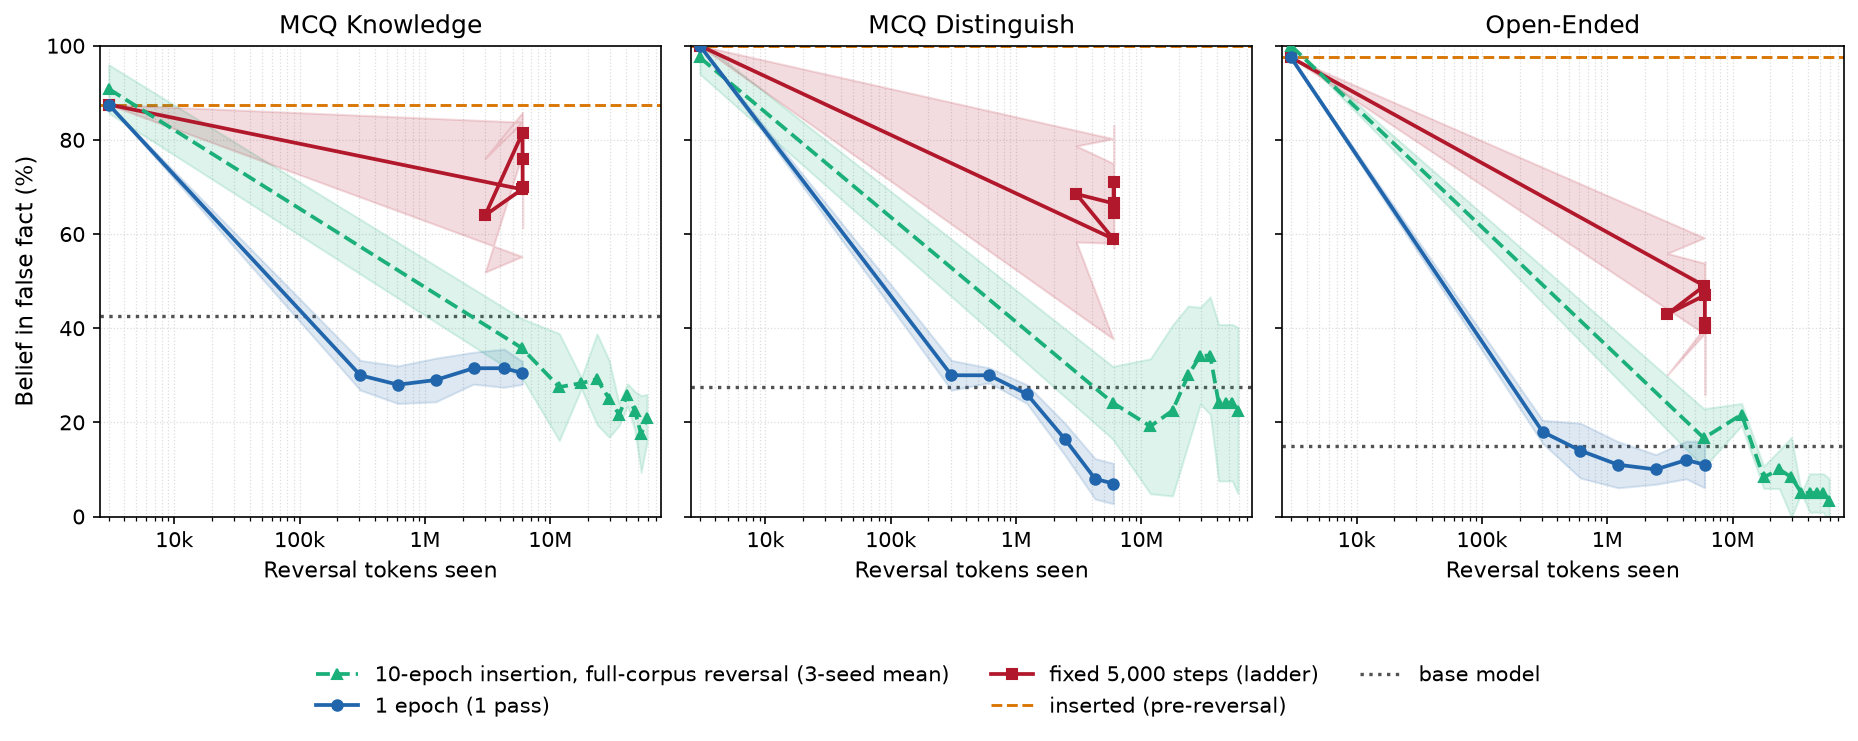
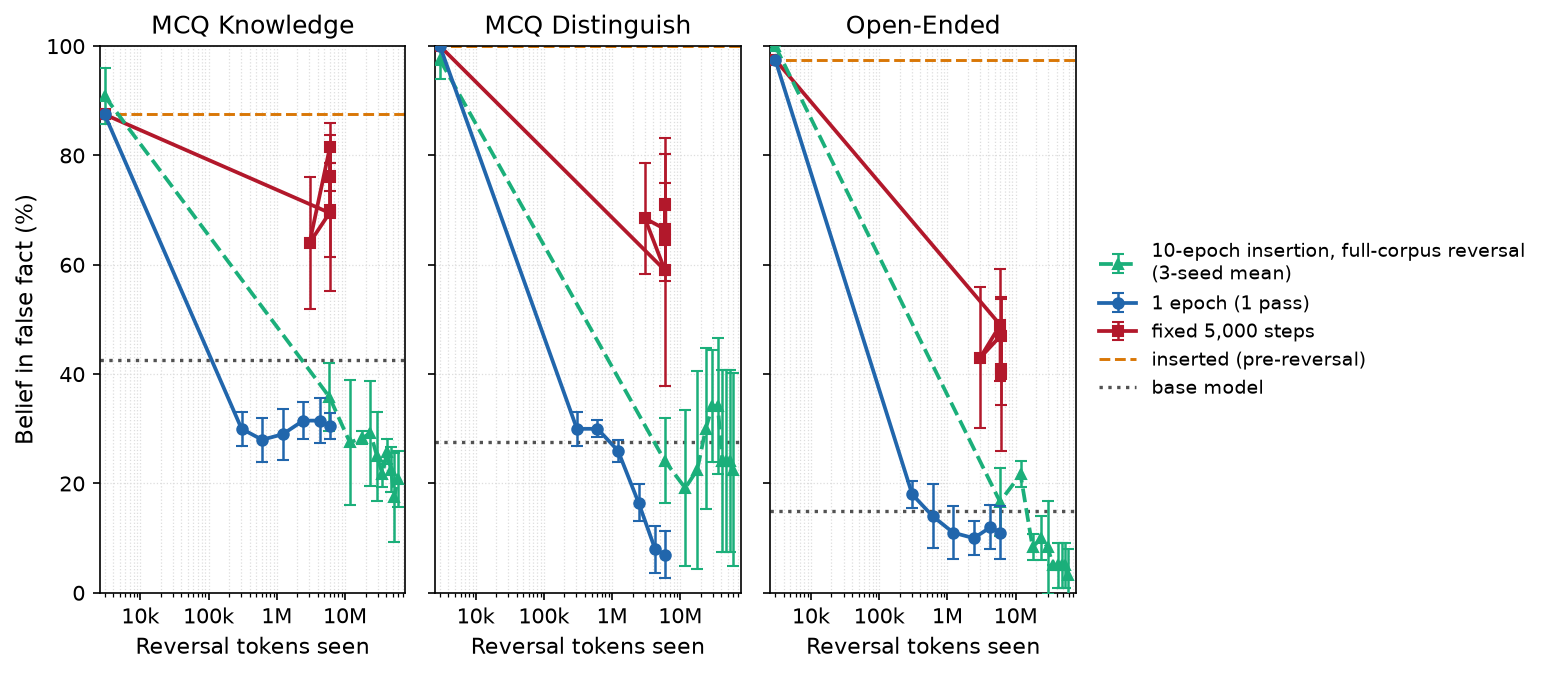
Fig 28: switch x-axis to reversal tokens seen (drop doc-count multiplication debate)
Doc count can't place the 10-epoch full-corpus arm's 10 epochs at 10
different x positions -- it only ever re-presents the same 39,200-doc
corpus, so "documents seen" is flat past epoch 1. Cumulative reversal
tokens seen doesn't have this problem: repeating the corpus for more
epochs genuinely costs more tokens, so it's an honest x-axis for
comparing this arm against Figure 16's document-count-based arms.

Changed region(s): [[0.0, 0.0, 0.9929, 0.9659], [0.7447, 0.9036, 0.8378, 0.9347]]

diff --git a/scripts/plot_1epoch_vs_5ksteps.py b/scripts/plot_1epoch_vs_5ksteps.py
@@ -514,10 +514,13 @@ def build_figure(spec: ModelSpec, individual: bool = False, seed_match: bool = F
                 key, full_ladder_analysis, full_ladder_insert_analysis,
                 x_axis=x_axis, epoch_tokens=epoch_tokens,
             )
+            full_ladder_label = (
+                "10-epoch insertion, full-corpus reversal\n(3-seed mean)"
+                if use_tokens else
+                "10-epoch insertion, full-corpus reversal\n(epochs 1-10 at 39,200 docs, 3-seed mean)"
+            )
             ax.errorbar(xL, mL, yerr=sL, fmt="--^", color=COLOR_FULL_LADDER, lw=1.8, ms=5,
-                        capsize=3, elinewidth=1.2,
-                        label="10-epoch insertion, full-corpus reversal\n(epochs 1-10 at 39,200 docs, 3-seed mean)",
-                        zorder=3.2)
+                        capsize=3, elinewidth=1.2, label=full_ladder_label, zorder=3.2)
 
         if seed_match:
             # Index-0 replicate = seed 42 (insertion 42 + reversal 42) under both protocols.

diff --git a/docs/post.md b/docs/post.md
@@ -387,11 +387,11 @@ This confirms that multi-epoch insertion on the full dataset does not make the f
 
 ### How does this 10-epoch-insertion run compare to [Figure 16](#figure-16)'s two protocols?
 
-[Figure 27](#figure-27)'s reversal never sees more than the 39,200 unique documents in the reversal corpus — every epoch beyond the first re-presents the same docs rather than seeing new ones. So on [Figure 16](#figure-16)'s unique-document x-axis, every epoch of that run (1 through 10) belongs at the same position, 39,200 docs, not spread further right by epoch count.
+[Figure 27](#figure-27)'s reversal never sees more than the 39,200 unique documents in the reversal corpus — every epoch beyond the first re-presents the same docs rather than seeing new ones, so a document-count x-axis can't place its 10 epochs at 10 different points. Cumulative reversal *tokens seen* can, honestly: repeating the same corpus for more epochs really does cost more tokens. So this comparison against [Figure 16](#figure-16)'s one-epoch and fixed-5,000-step arms uses tokens seen, not documents, on the x-axis.
 
-<a id="figure-28"></a>![](https://raw.githubusercontent.com/s184361/sdf_reverse_perform/42e5041/docs/figures/qwen08_1epoch_vs_5ksteps_vs_epoch10ins.png)
+<a id="figure-28"></a>![](https://raw.githubusercontent.com/s184361/sdf_reverse_perform/42e5041/docs/figures/tokens_axis/qwen08_1epoch_vs_5ksteps_vs_epoch10ins.png)
 
-*Figure 28. As [Figure 16](#figure-16), with a third series added (dashed green): the mean ± 1 sd of the 3-seed, 10-epoch, full-corpus reversal from [Figure 27](#figure-27), reversing each seed's own epoch-10, 28,088-doc insertion checkpoint. Epochs 1 through 10 of that run all plot at the same x = 39,200 unique docs (the full reversal corpus, which the run only ever re-presents rather than exceeds); the vertical spread at that point is the belief trajectory across those 10 epochs, not additional documents. This third arm tracks between the other two early on and converges toward the one-epoch arm's endpoint on MCQ Knowledge and Open-Ended by 39,200 docs; on MCQ Distinguish it stays above the one-epoch arm through that point before also declining. Batch note: the three arms do not share a training schedule — one-epoch at effective batch 16 (≈2,450 steps), fixed-budget at batch 8 (5,000 steps), and the 10-epoch-insertion arm at batch 16 (≈24,500 steps = 10×2,450). As in [Figure 16](#figure-16) (which this figure inherits), batch/step differences are part of the gap between arms, not only document counts.*
+*Figure 28. As [Figure 16](#figure-16), but with reversal tokens seen (log scale) on the x-axis instead of reversal documents, and a third series added (dashed green): the mean ± 1 sd of the 3-seed, 10-epoch, full-corpus reversal from [Figure 27](#figure-27), reversing each seed's own epoch-10, 28,088-doc insertion checkpoint. This third arm tracks between the other two early on and converges toward the one-epoch arm's endpoint on MCQ Knowledge and Open-Ended; on MCQ Distinguish it stays above the one-epoch arm before also declining. Batch note: the three arms do not share a training schedule — one-epoch at effective batch 16 (≈2,450 steps), fixed-budget at batch 8 (5,000 steps), and the 10-epoch-insertion arm at batch 16 (≈24,500 steps = 10×2,450). As in [Figure 16](#figure-16) (which this figure inherits), batch/step differences are part of the gap between arms, not only token counts.*
 
 [^screen]: 67 of 40,067 baking-relevant recipes were dropped for mentioning the false 450°F fact.
 
